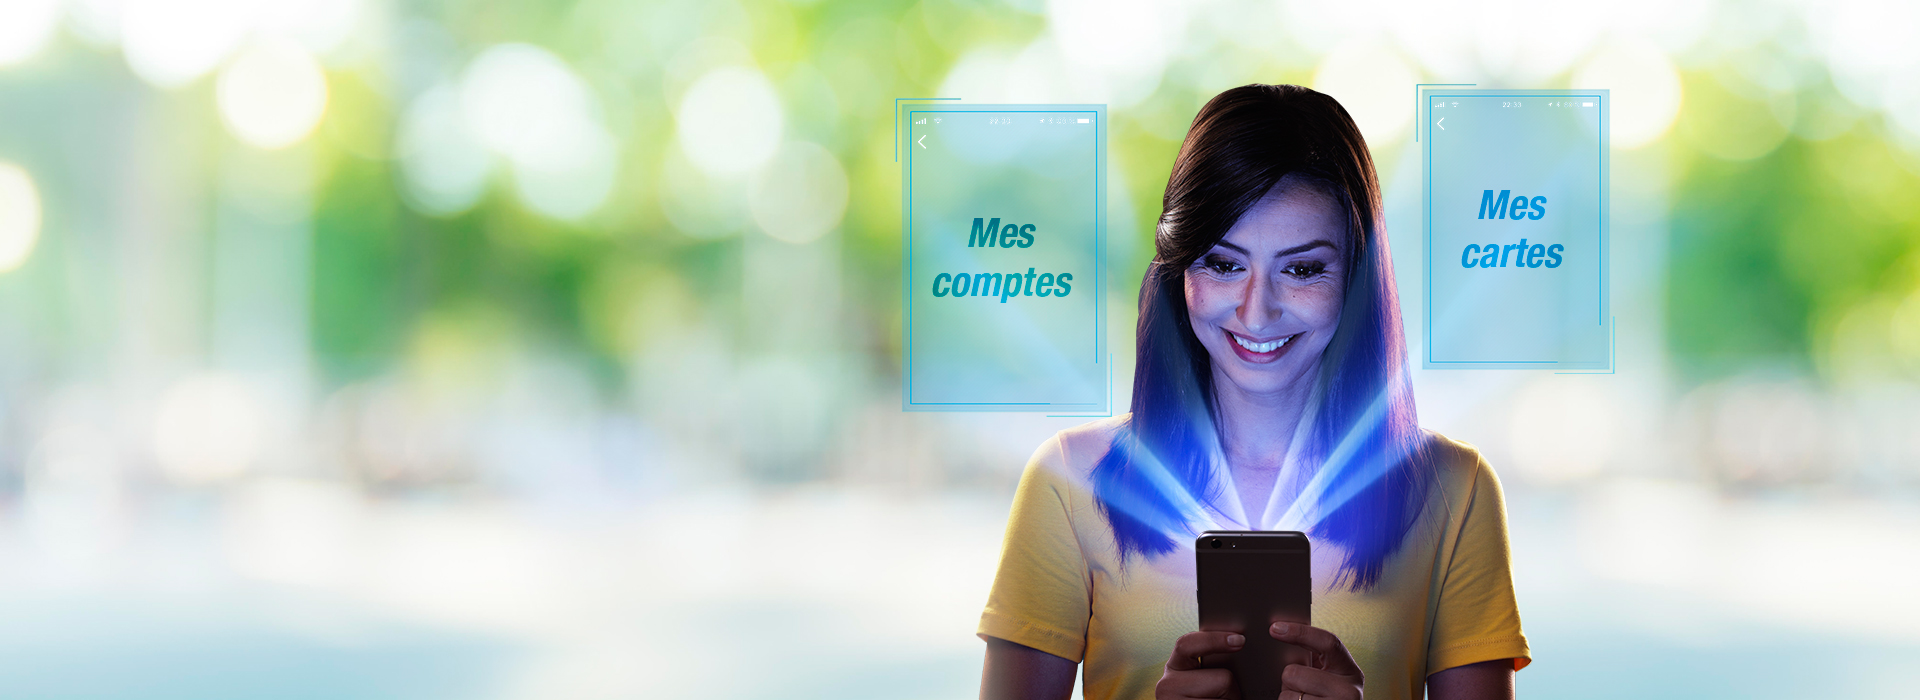
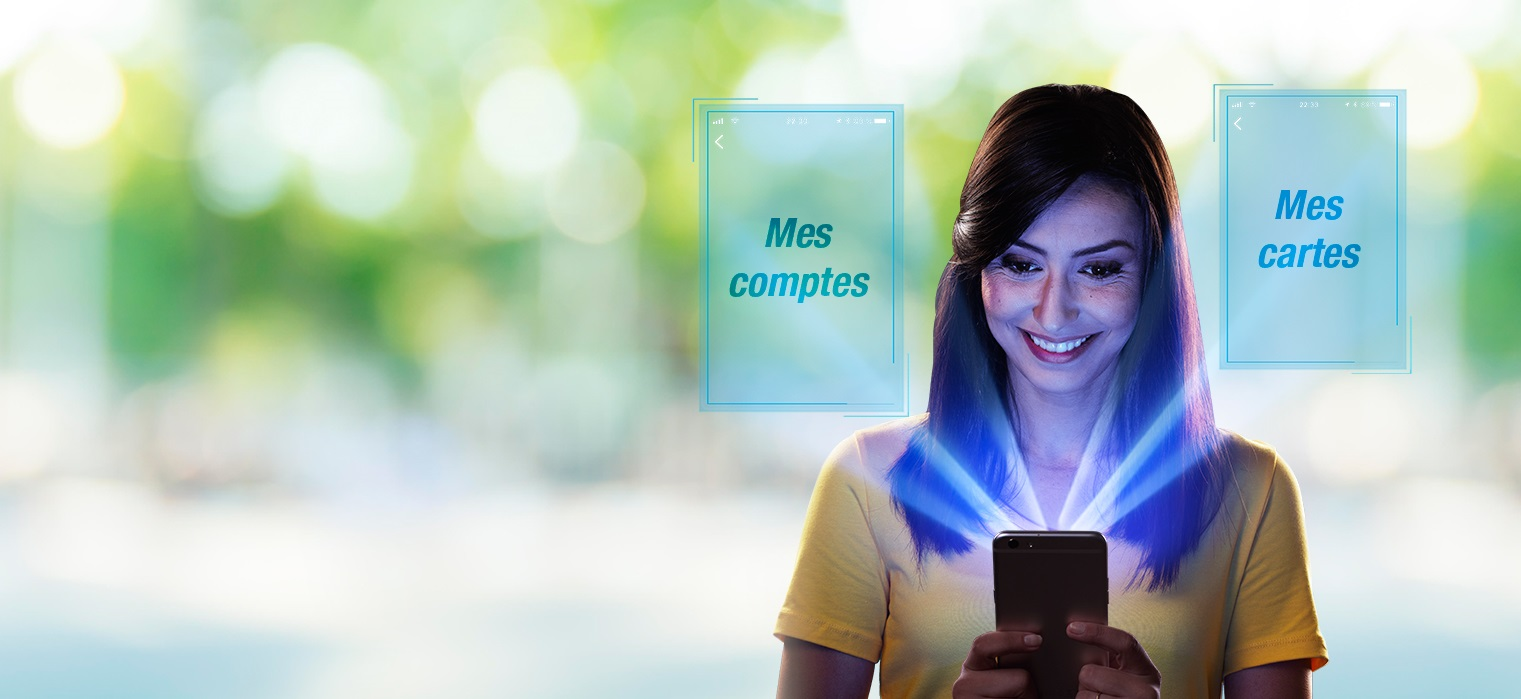
Position setting working, just need to improve image dimensions.

diff --git a/Client/src/app/accueil/slider/slider.component.html b/Client/src/app/accueil/slider/slider.component.html
@@ -9,45 +9,46 @@
         class="fader__slide"
         *ngFor="let src of images; let idx = index"
       >
-        <img [src]="src" />
+        <img class="bg-img" [src]="src"/>
 
-
-          <div *ngIf="idx == 0 && imgTxtObs | async as imgtxts" style="max-width: 561px; max-height: 389px; z-index: 100;">
+        <div id="textImageOuterDiv">
+          <div *ngIf="idx == 0 && imgTxtObs | async as imgtxts">
             <div *ngFor="let img of imgtxts">
-              <div *ngIf="img.slideName == 'Slide1'">
-                <img  [src]="ImagePath(img.imageTextPath)" style="z-index: 100; width: 100%; height: 100%;">
+              <div *ngIf="img.slideName == 'Slide1'" class="img-container" [ngStyle]="{'position': 'relative', 'left': (img.positionX*1.2) + 'px', 'top': (img.positionY*1.9) + 'px'}">
+                <img  [src]="ImagePath(img.imageTextPath)">
               </div>
             </div>
           </div>
           <div *ngIf="idx == 1 && imgTxtObs | async as imgtxts">
             <div *ngFor="let img of imgtxts">
-              <div *ngIf="img.slideName == 'Slide2'">
-                <img  [src]="ImagePath(img.imageTextPath)" style="z-index: 100;">
+              <div *ngIf="img.slideName == 'Slide2'" class="img-container" [ngStyle]="{'position': 'relative', 'left': (img.positionX*1.2) + 'px', 'top': (img.positionY*1.9) + 'px'}">
+                <img  [src]="ImagePath(img.imageTextPath)">
               </div>
             </div>
           </div>
           <div *ngIf="idx == 2 && imgTxtObs | async as imgtxts">
             <div *ngFor="let img of imgtxts">
-              <div *ngIf="img.slideName == 'Slide3'">
-                <img  [src]="ImagePath(img.imageTextPath)" style="z-index: 100;">
+              <div *ngIf="img.slideName == 'Slide3'" class="img-container" [ngStyle]="{'position': 'relative', 'left': (img.positionX*1.2) + 'px', 'top': (img.positionY*1.9) + 'px'}">
+                <img  [src]="ImagePath(img.imageTextPath)">
               </div>
             </div>
           </div>
           <div *ngIf="idx == 3 && imgTxtObs | async as imgtxts">
             <div *ngFor="let img of imgtxts">
-              <div *ngIf="img.slideName == 'Slide4'">
-                <img  [src]="ImagePath(img.imageTextPath)" style="z-index: 100;">
+              <div *ngIf="img.slideName == 'Slide4'" class="img-container" [ngStyle]="{'position': 'relative', 'left': (img.positionX*1.2) + 'px', 'top': (img.positionY*1.9) + 'px'}">
+                <img  [src]="ImagePath(img.imageTextPath)">
               </div>
             </div>
           </div>
           <div *ngIf="idx == 4 && imgTxtObs | async as imgtxts">
             <div *ngFor="let img of imgtxts">
-              <div *ngIf="img.slideName == 'Slide5'">
-                <img  [src]="ImagePath(img.imageTextPath)" style="z-index: 100;">
+              <div *ngIf="img.slideName == 'Slide5'" class="img-container" [ngStyle]="{'position': 'relative', 'left': (img.positionX*1.2) + 'px', 'top': (img.positionY*1.9) + 'px'}">
+                <img  [src]="ImagePath(img.imageTextPath)">
               </div>
             </div>
           </div>
-
+        </div>
+          
       
 
       </div>
@@ -81,3 +82,13 @@
     </div>
   
 </div>
+
+<br>
+<br>
+<br>
+<br>
+<br>
+<br>
+<br>
+<br>
+<br>

diff --git a/Client/src/app/admin-panel/modifier-texte-slide/popup-text-slide/popup-text-slide.component.html b/Client/src/app/admin-panel/modifier-texte-slide/popup-text-slide/popup-text-slide.component.html
@@ -1,7 +1,7 @@
 <div class="example-boundary"  [ngStyle]="{'background-image': 'url('+ dataText.path +')'}">
     
 
-          <div *ngIf="getDesiredImageText(dataText.slide) == ''; then contenu_bon else contenu_pas_bon"></div>
+          <div *ngIf="getDesiredImageText(dataText.slide) == null; then contenu_bon else contenu_pas_bon"></div>
             <ng-template #contenu_bon>
               <div class="example-box" 
                     cdkDragBoundary=".example-boundary" 
@@ -12,9 +12,11 @@
               </div>
             </ng-template>
             <ng-template #contenu_pas_bon>
-              <div class="example-box" [ngStyle]="{'background': 'url('+ ImagePath(getDesiredImageText(dataText.slide).imageTextPath) +') no-repeat'}" 
+              <div class="example-box" [ngStyle]="{'background': 'url('+ ImagePath(getDesiredImageText(dataText.slide).imageTextPath) +')'}" 
                 cdkDragBoundary=".example-boundary" 
-                (cdkDragEnded)="onDragEnded($event)" cdkDrag>
+                (cdkDragEnded)="onDragEnded($event)"
+                [cdkDragFreeDragPosition]="{x: getDesiredImageText(dataText.slide).positionX, y: getDesiredImageText(dataText.slide).positionY}"
+                cdkDrag>
               </div>
             </ng-template>
           

diff --git a/Client/src/app/admin-panel/modifier-texte-slide/popup-text-slide/popup-text-slide.component.ts b/Client/src/app/admin-panel/modifier-texte-slide/popup-text-slide/popup-text-slide.component.ts
@@ -21,8 +21,8 @@ export class PopupTextSlideComponent implements OnInit {
   imgTxt4: ImageText;
   imgTxt5: ImageText;
 
-  posX: number = 0;
-  posY: number = 0;
+  posX: any = 0;
+  posY: any = 0;
 
 
   validate: boolean = true;
@@ -47,7 +47,7 @@ export class PopupTextSlideComponent implements OnInit {
     this.posY = event.source.getFreeDragPosition().y;
   }
 
-  onSubmitPosition(position: {Image: any, PosX: number, PosY: number, NumSlide: string}){
+  onSubmitPosition(position: {Image: any, PosX: any, PosY: any, NumSlide: string}){
     this.dataStorageService.updatePosition(position).subscribe(result => {
       alert("Position enregistée");
       this.dialog.closeAll();
@@ -129,7 +129,7 @@ getTextImage(){
   });
 }
 
-getDesiredImageText(numSlide: string): any{
+getDesiredImageText(numSlide: string): ImageText{
   
   if(this.imgTxt1 != null && this.imgTxt1.slideName == numSlide){
     //return this.ImagePath(this.imgTxt1.imageTextPath);
@@ -158,7 +158,7 @@ getDesiredImageText(numSlide: string): any{
   }
   else {
     this.validate = false;
-    return '';
+    return null;
   }
 
 }

diff --git a/Client/src/app/accueil/slider/slider.component.css b/Client/src/app/accueil/slider/slider.component.css
@@ -1,5 +1,5 @@
 .fader {
-  height: 700px;
+  height: 620px;
   width: 100%;
   position: relative;
   overflow: hidden;
@@ -14,11 +14,11 @@
   top: 0;
 }
 
-.fader img {
+.fader .bg-img {
   width: 100%;
   height: 100%;
-  min-width: 1920px !important;
-  min-height: 700px;
+  min-width: 1520px;
+  min-height: 620px;
   position: absolute;
   top: 50%;
   left: 50%;
@@ -77,6 +77,7 @@
   -webkit-transform: translateY(-50%);
   fill: #fff;
   cursor: pointer;
+  z-index: 101;
 }
 
 .arrow--left {
@@ -89,3 +90,19 @@
 }
 
 
+.img-container{
+  max-width: 561px !important; 
+  max-height: 389px !important; 
+}
+
+.img-container img{
+  width: 100%; 
+  height: 100%;
+  display: block !important;
+}
+
+#textImageOuterDiv{
+  position: relative; 
+  z-index: 100 !important;
+  width: 100%;
+}

diff --git a/Client/src/app/shared/data-storage.service.ts b/Client/src/app/shared/data-storage.service.ts
@@ -76,7 +76,7 @@ export class DataSotrageService{
         return this.http.delete(`https://localhost:44324/api/ImageText/${id}`, {responseType: 'text'});
     }
 
-    updatePosition(position: {Image: any, PosX: number, PosY: number, NumSlide: string}){
+    updatePosition(position: {Image: any, PosX: any, PosY: any, NumSlide: string}){
         return this.http.put("https://localhost:44324/api/ImageText" , position, {responseType: 'text'});
     }
 

diff --git a/Client/src/app/admin-panel/modifier-texte-slide/popup-text-slide/popup-text-slide.component.css b/Client/src/app/admin-panel/modifier-texte-slide/popup-text-slide/popup-text-slide.component.css
@@ -1,6 +1,6 @@
 .example-box {
-    width: 500px;
-    height: 400px;
+    width: 450px;
+    height: 300px;
     border: solid 1px #ccc;
     color: rgba(0, 0, 0, 0.87);
     cursor: move;
@@ -21,6 +21,7 @@
                 0 1px 5px 0 rgba(0, 0, 0, 0.12);
 
     opacity: 0.9;
+    background-size: 100% 100% !important;
   }
   
   .example-box:active {

diff --git a/Client/src/app/admin-panel/modifier-texte-slide/modifier-texte-slide.component.css b/Client/src/app/admin-panel/modifier-texte-slide/modifier-texte-slide.component.css
@@ -1,5 +1,5 @@
 .container{
-    margin-top: 150px;
+    margin-top: 100px;
     text-align: center;
 }
 

diff --git a/API/Data/Migrations/20200625105014_EditTableImageTexts.cs b/API/Data/Migrations/20200625105014_EditTableImageTexts.cs
@@ -1,0 +1,41 @@
+using Microsoft.EntityFrameworkCore.Migrations;
+
+namespace API.Data.Migrations
+{
+    public partial class EditTableImageTexts : Migration
+    {
+        protected override void Up(MigrationBuilder migrationBuilder)
+        {
+            migrationBuilder.AlterColumn<double>(
+                name: "PositionY",
+                table: "ImageTexts",
+                nullable: false,
+                oldClrType: typeof(int),
+                oldType: "int");
+
+            migrationBuilder.AlterColumn<double>(
+                name: "PositionX",
+                table: "ImageTexts",
+                nullable: false,
+                oldClrType: typeof(int),
+                oldType: "int");
+        }
+
+        protected override void Down(MigrationBuilder migrationBuilder)
+        {
+            migrationBuilder.AlterColumn<int>(
+                name: "PositionY",
+                table: "ImageTexts",
+                type: "int",
+                nullable: false,
+                oldClrType: typeof(double));
+
+            migrationBuilder.AlterColumn<int>(
+                name: "PositionX",
+                table: "ImageTexts",
+                type: "int",
+                nullable: false,
+                oldClrType: typeof(double));
+        }
+    }
+}

diff --git a/API/Data/Migrations/20200625105014_EditTableImageTexts.Designer.cs b/API/Data/Migrations/20200625105014_EditTableImageTexts.Designer.cs
@@ -3,14 +3,16 @@ using API.Data;
 using Microsoft.EntityFrameworkCore;
 using Microsoft.EntityFrameworkCore.Infrastructure;
 using Microsoft.EntityFrameworkCore.Metadata;
+using Microsoft.EntityFrameworkCore.Migrations;
 using Microsoft.EntityFrameworkCore.Storage.ValueConversion;
 
 namespace API.Data.Migrations
 {
     [DbContext(typeof(StoreContext))]
-    partial class StoreContextModelSnapshot : ModelSnapshot
+    [Migration("20200625105014_EditTableImageTexts")]
+    partial class EditTableImageTexts
     {
-        protected override void BuildModel(ModelBuilder modelBuilder)
+        protected override void BuildTargetModel(ModelBuilder modelBuilder)
         {
 #pragma warning disable 612, 618
             modelBuilder

diff --git a/API/Entities/ImageText.cs b/API/Entities/ImageText.cs
@@ -15,8 +15,8 @@ namespace API.Entities
 
         public string SlideName { get; set; }
 
-        public int PositionX { get; set; }
+        public double PositionX { get; set; }
 
-        public int PositionY { get; set; }
+        public double PositionY { get; set; }
     }
 }

diff --git a/API/Data/ImageTextRequestFormat.cs b/API/Data/ImageTextRequestFormat.cs
@@ -12,8 +12,8 @@ namespace API.Data
 
         public string NumSlide { get; set; }
 
-        public int PosX { get; set; }
+        public double PosX { get; set; }
 
-        public int PosY { get; set; }
+        public double PosY { get; set; }
     }
 }
